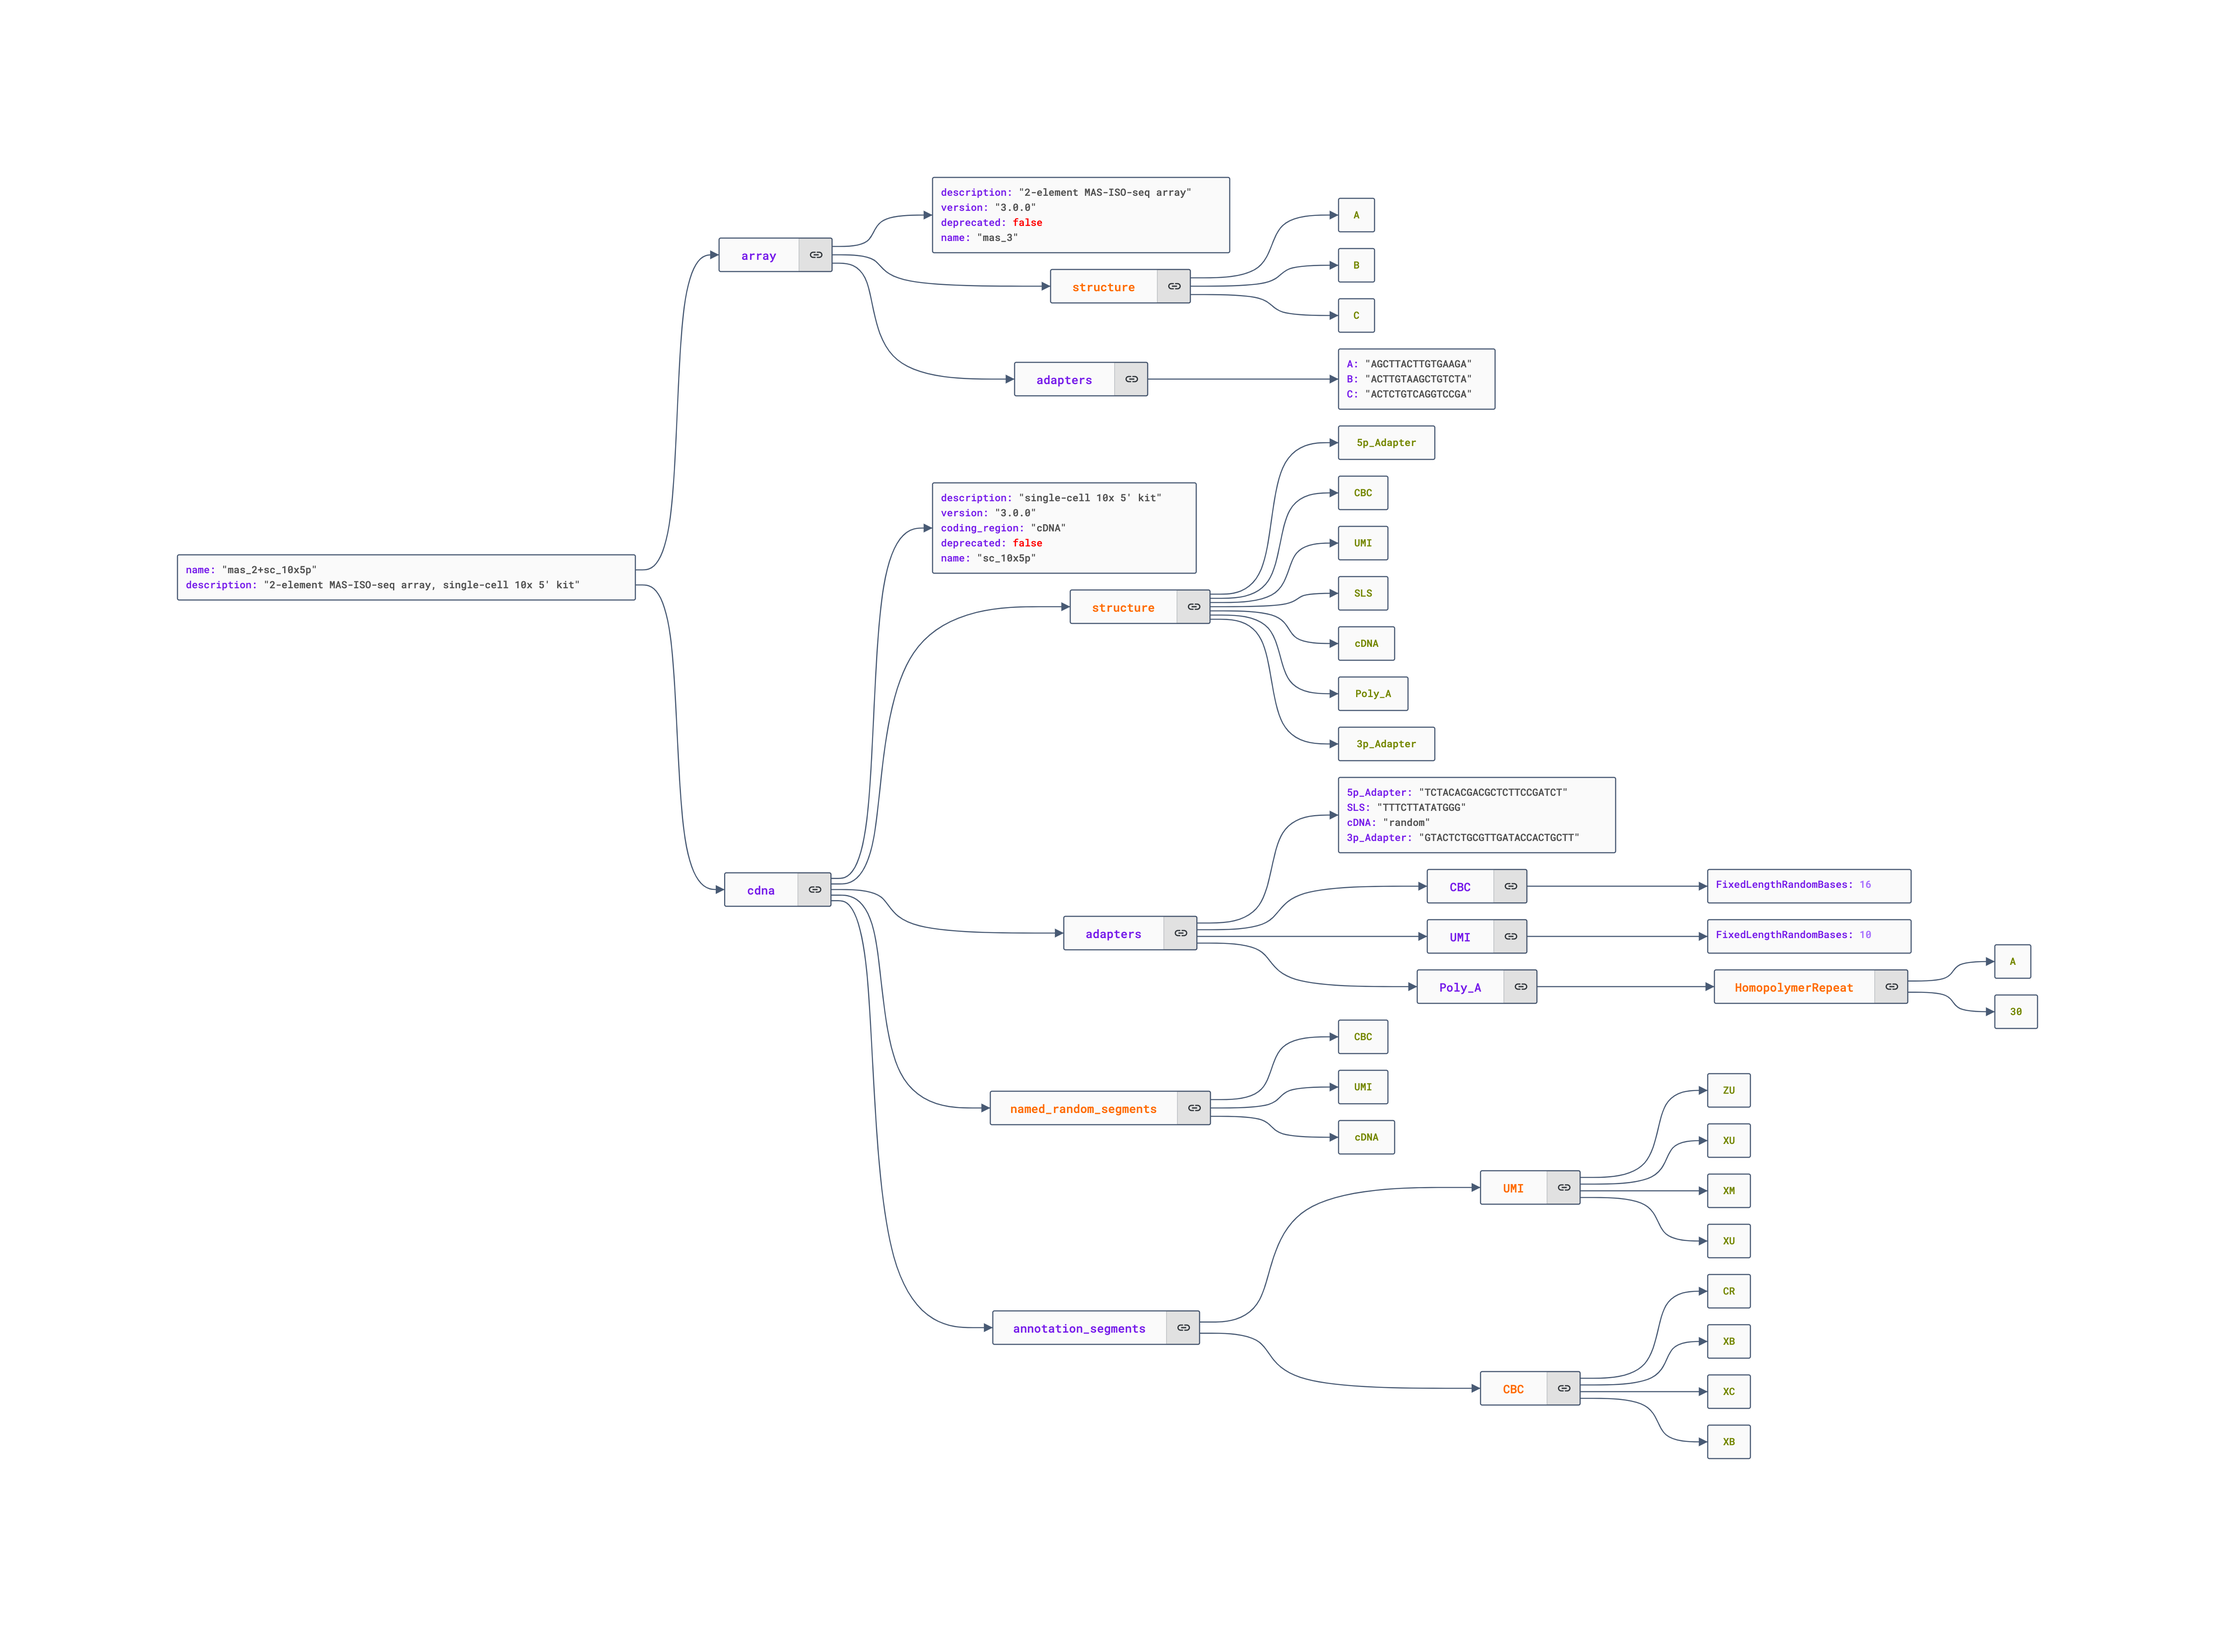
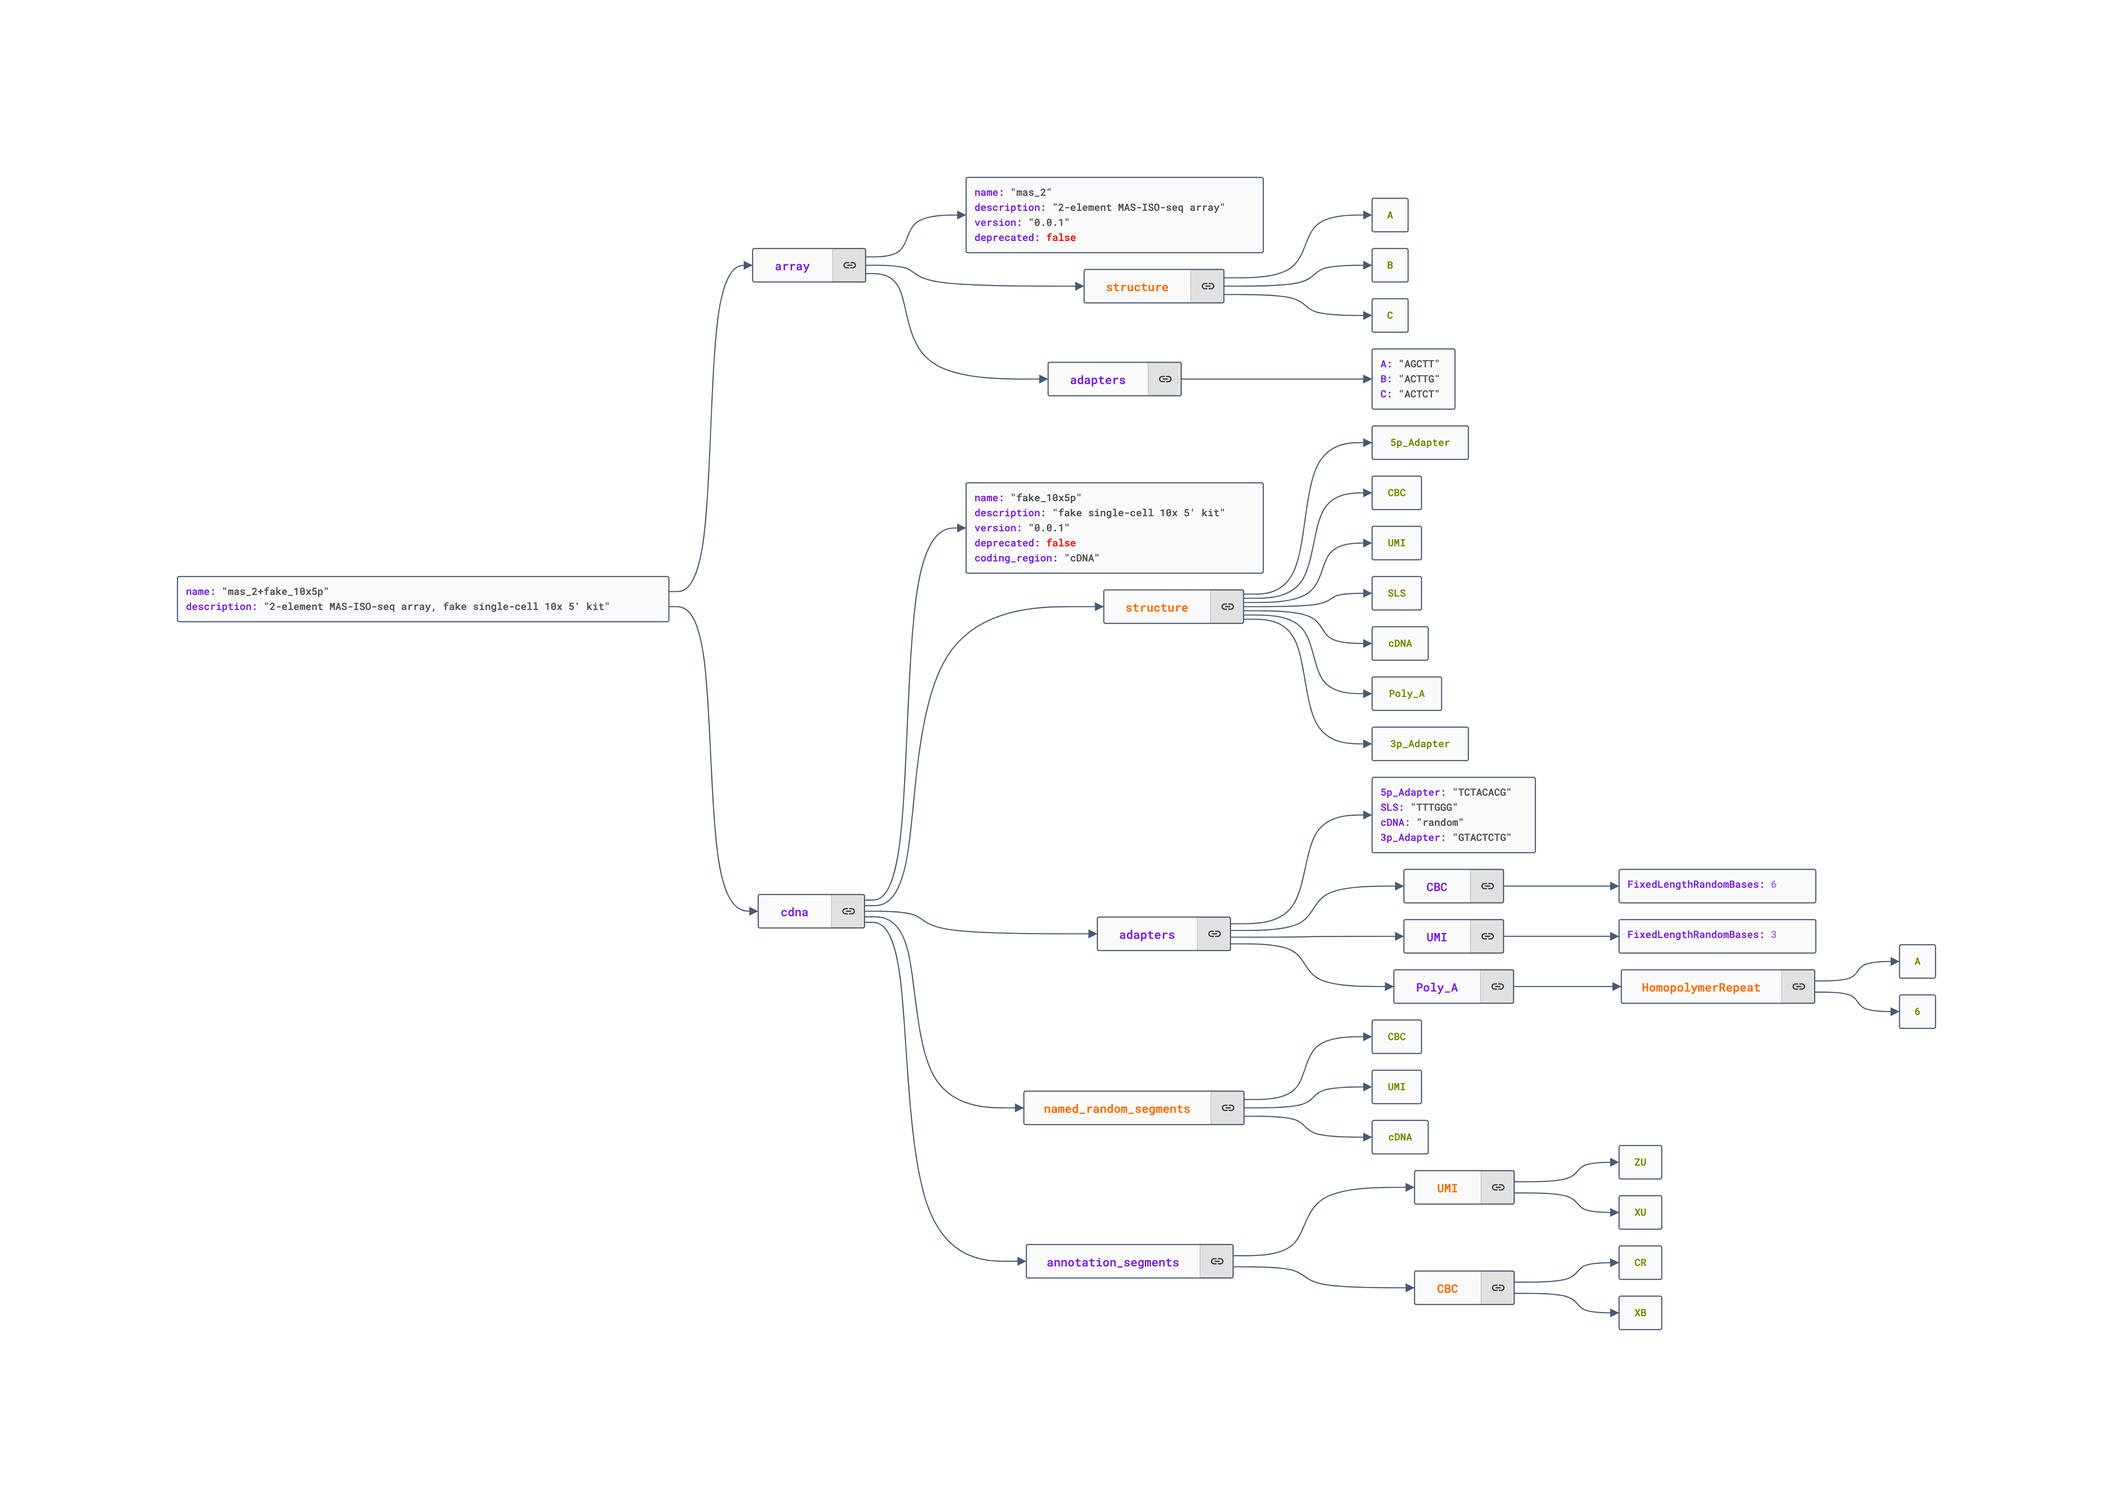
Added an example to the custom model tutorial

diff --git a/docs/custom_models.md b/docs/custom_models.md
@@ -8,62 +8,122 @@ has_children: true
 
 # Custom models
 
-Longbow allows for a custom annotation model to be specified, enabling new array and/or cDNA designs to be utilized and automatically benefit from the model-based array and cDNA filtering commands.
+Longbow allows for a custom annotation model to be specified, enabling new array and/or cDNA designs to be utilized and automatically benefit from Longbow's model-based array and cDNA filtering commands. This also helps prepare data with BAM tags containing extracted sequence information that may be needed for the data to be used with downstream tools.
+
+A custom model is a [JSON file](https://www.json.org/json-en.html) containing the name and description for the combined model and two high-level sections: (1) the array model specification, and (2) the cDNA model specification. (Note that future versions will also permit multiplexing models to be provided.) When Longbow reads a custom model file, it will automatically build a hidden Markov model with the whole cDNA model interlaced between the adapters in the array model.
 
 This feature is under continuous improvement and may change as we head towards a finalized API for the future 1.0.0 release. [Feedback is welcome](https://github.com/broadinstitute/longbow/issues)!
 
-## Example model file
+## Example
 
-A custom model is a [JSON file](https://www.json.org/json-en.html) containing the name and description for the combined model and two high-level sections: (1) the array model specification, and (2) the cDNA model specification. (Note that future versions will also permit multiplexing models to be provided.)
+### Creating a fake read to annotate
 
-When Longbow reads a custom model file, it will automatically build a hidden Markov model with the whole cDNA model interlaced between the adapters in the array model.
+To demonstrate this feature, we shall make a fake read that comes from a hypothetical 2-element MAS-seq array and a simplified 10x 5' single-cell library prep.  Here's a script to create the read and store it in the file "fake_read.bam":
 
-Let's look at a small example: a model with a 2-element MAS-seq array and 10x 5' single-cell cDNA model. The model file is as follows:
+```shell
+#!/bin/bash
+
+# MAS-seq adapters
+A="AGCTT"
+B="ACTTG"
+C="ACTCT"
+
+# Single-cell adapters
+Adapter5p="TCTACACG"
+SLS="TTTGGG"
+Poly_A="AAAAAA"
+Adapter3p="GTACTCTG"
+
+# Transcript 1 (with cell barcode and UMI)
+CBC1="CAGTCA"
+UMI1="ACG"
+cDNA1="ATGGTGTCATGATTCGTATGATCATCGTAG"
+
+# Transcript 2 (with cell barcode and UMI)
+CBC2="ACTGAC"
+UMI2="GAC"
+cDNA2="ATGGTGCTATACATGCATTAG"
+
+# Create a valid BAM file
+echo "$A$Adapter5p$CBC1$UMI1$SLS$cDNA1$Poly_A$Adapter3p$B$Adapter5p$CBC2$UMI2$SLS$cDNA2$Poly_A$Adapter3p$C" | \
+	awk '{ a=$1; gsub(".", "!", a); print "@HD VN:1.5 SO:unknown\n@RG ID:abcdef12 SM:testsample\nm99999_221126_010101/1/ccs 4 * 0 255 * * 0 0", $1, a, "np:i:10 rq:f:1.0 zm:i:1 RG:Z:abcdef12" }' | \
+	sed 's/ /\t/g' | \
+	samtools view -b --no-PG > fake_read.bam
+```
+
+### Creating a custom model to annotate the fake read
+
+We wish to annotate the constituent pieces of this read. To do so, we need to prepare a custom model specifying all of the adapters and unknown sequences that Longbow should annotate. Our custom model file ("fake_model.json") is as follows:
 
     {
-      "name": "mas_2+sc_10x5p",
-      "description": "2-element MAS-ISO-seq array, single-cell 10x 5' kit",
+      "name": "mas_2+fake_10x5p",
+      "description": "2-element MAS-ISO-seq array, fake single-cell 10x 5' kit",
 
       "array": {
-          "description": "2-element MAS-ISO-seq array",
-          "version": "3.0.0",
-          "structure": [ "A", "B", "C" ],
-          "adapters": {
-              "A": "AGCTTACTTGTGAAGA",
-              "B": "ACTTGTAAGCTGTCTA",
-              "C": "ACTCTGTCAGGTCCGA"
-          },
-          "deprecated": false,
-          "name": "mas_3"
+        "name": "mas_2",
+        "description": "2-element MAS-ISO-seq array",
+        "version": "0.0.1",
+        "deprecated": false,
+
+        "structure": [ "A", "B", "C" ],
+        "adapters": {
+          "A": "AGCTT",
+          "B": "ACTTG",
+          "C": "ACTCT"
+        }
       },
 
       "cdna": {
-          "description": "single-cell 10x 5' kit",
-          "version": "3.0.0",
-          "structure": [ "5p_Adapter", "CBC", "UMI", "SLS", "cDNA", "Poly_A", "3p_Adapter" ],
-          "adapters": {
-              "5p_Adapter":   "TCTACACGACGCTCTTCCGATCT",
-              "CBC":        { "FixedLengthRandomBases": 16 },
-              "UMI":        { "FixedLengthRandomBases": 10 },
-              "SLS":          "TTTCTTATATGGG",
-              "cDNA":         "random",
-              "Poly_A":     { "HomopolymerRepeat": [ "A", 30 ] },
-              "3p_Adapter":   "GTACTCTGCGTTGATACCACTGCTT"
-          },
-          "named_random_segments": [ "CBC", "UMI", "cDNA" ],
-          "coding_region": "cDNA",
-          "annotation_segments": {
-              "UMI": [ [ "ZU", "XU" ], [ "XM", "XU" ] ],
-              "CBC": [ [ "CR", "XB" ], [ "XC", "XB" ] ]
-          },
-          "deprecated": false,
-          "name": "sc_10x5p"
+        "name": "fake_10x5p",
+        "description": "fake single-cell 10x 5' kit",
+        "version": "0.0.1",
+        "deprecated": false,
+
+        "structure": [ "5p_Adapter", "CBC", "UMI", "SLS", "cDNA", "Poly_A", "3p_Adapter" ],
+        "adapters": {
+          "5p_Adapter":   "TCTACACG",
+          "CBC":        { "FixedLengthRandomBases": 6 },
+          "UMI":        { "FixedLengthRandomBases": 3 },
+          "SLS":          "TTTGGG",
+          "cDNA":         "random",
+          "Poly_A":     { "HomopolymerRepeat": [ "A", 6 ] },
+          "3p_Adapter":   "GTACTCTG"
+        },
+
+        "named_random_segments": [ "CBC", "UMI", "cDNA" ],
+        "coding_region": "cDNA",
+        "annotation_segments": {
+          "UMI": [ [ "ZU", "XU" ] ],
+          "CBC": [ [ "CR", "XB" ] ]
+        }
       }
     }
 
-The layout for this model is diagrammed below using the [JSON Crack](https://jsoncrack.com/editor) editor:
+To help with understanding how this file is laid out, we've diagrammed the model below using the [JSON Crack](https://jsoncrack.com/editor) editor:
 
 ![](figures/example_model_graph.png)
+
+### Visualizing the annotation of the fake read with our custom model
+
+To see how our custom model fares in annotating this read, we can use Longbow's `inspect` command as follows:
+
+```shell
+$ longbow inspect -m fake_model.json -o images fake_read.bam
+[INFO 2022-11-26 15:44:01  inspect] Invoked via: longbow inspect -m fake_model.json -o images fake_read.bam
+[INFO 2022-11-26 15:44:01  inspect] Using mas_2+fake_10x5p: 2-element MAS-ISO-seq array, fake single-cell 10x 5' kit
+[INFO 2022-11-26 15:44:01  inspect] Figure drawing mode: extended
+[INFO 2022-11-26 15:44:01  inspect] No read names given. Inspecting every read in the input bam file.
+[INFO 2022-11-26 15:44:01  inspect] Drawing read 'm99999_221126_010101/1/ccs' to 'images/m99999_221126_010101_1_ccs.pdf'
+[INFO 2022-11-26 15:44:04  inspect] Done. Elapsed time: 2.37s.
+```
+
+This results in a figure that displays how each base in the read was annotated:
+
+![](figures/m99999_221126_010101_1_ccs.png)
+
+As depicted in the figure, the MAS-seq and single-cell adapters have been successfully annotated. (Note that the under-annotation of the cDNA sequence by a single base at the start of the sequence is a known issue and will be addressed prior to the 1.0 release).
+
+### Behind the scenes
 
 Internally to Longbow, this results in an HMM that looks (approximately) as follows:
 
